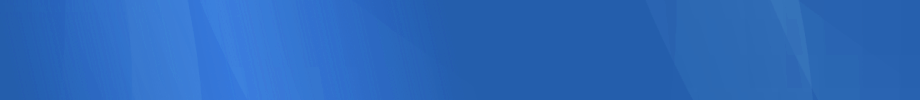
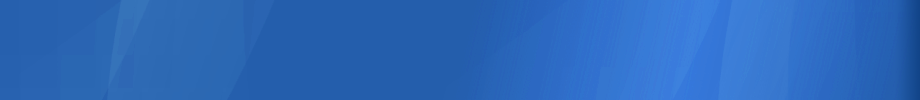
style is refined

diff --git a/trunk/shopwindow/src/site/resources/css/site.css b/trunk/shopwindow/src/site/resources/css/site.css
@@ -18,13 +18,17 @@ a:visited {
 }
 
 #banner {
-    background: url('banner_bg.png');
+    background-color: #1D54A6;
+    background-image: url('banner_bg.png');
+    background-position: right;
+    background-repeat: no-repeat;
     border-color: #73A1D6;
     color: white;
+    padding-left: 20px;
 }
 
 #breadcrumbs {
-    background-color: #1772BD;
+    background-color: #1F5195;
     color: white;
 }
 
@@ -35,16 +39,19 @@ a:visited {
 #leftColumn {
     background-color: #C4C4C4;
     color: white;
-    margin: 20px 0px 0px 0px;
+    margin: 20px 2px 2px 0px;
     float: right;
     width: 20%;
 }
 
 #navcolumn {
-    background: url('side_bar_bg.gif') repeat-y right;
+    background: url('side_bar_bg.png') repeat-y right;
     position: relative;
     top: -3px;
     left: -3px;
+    border-width: 2px 0px 0px 0px;
+    border-style: solid;
+    border-color:  #1F5195;
 }
 
 #leftColumn h5 {
@@ -55,6 +62,11 @@ a:visited {
 }
 
 #leftColumn a {
+    color: #B5D7FF;
+    letter-spacing: 2px;
+}
+
+#leftColumn a:hover {
     color: white;
 }
 

diff --git a/trunk/shopwindow/src/site/resources/css/site-base.css b/trunk/shopwindow/src/site/resources/css/site-base.css
@@ -21,7 +21,7 @@ h1,h2,h3,h4,h5 {
 }
 
 .section p, .section .bodyTable {
-    font-size:11pt;
+    font-size: 10pt;
 }
 
 .section .bodyTable tr.a {
@@ -69,13 +69,20 @@ h1,h2,h3,h4,h5 {
 
 #leftColumn {
     border-width: 0px;
-    //margin: 0px 0px 0px 0px;
     float: left;
     width: 20%;
 }
 
 #navcolumn {
     padding: 5px;
+}
+
+#navcolumn li {
+    padding-left: 32px;
+}
+
+#navcolumn li.expanded, #navcolumn li.collapsed {
+    background-image: none;
 }
 
 #leftColumn h5 {
